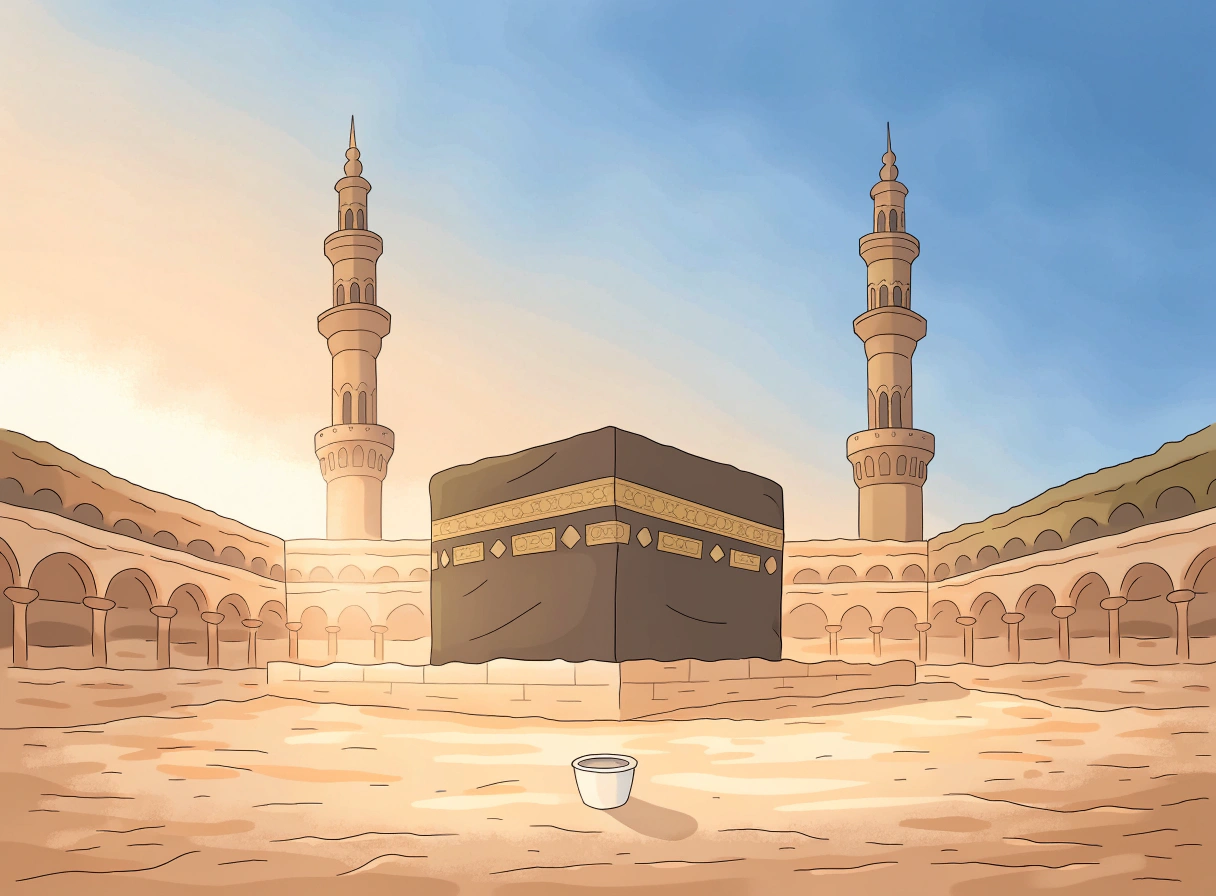
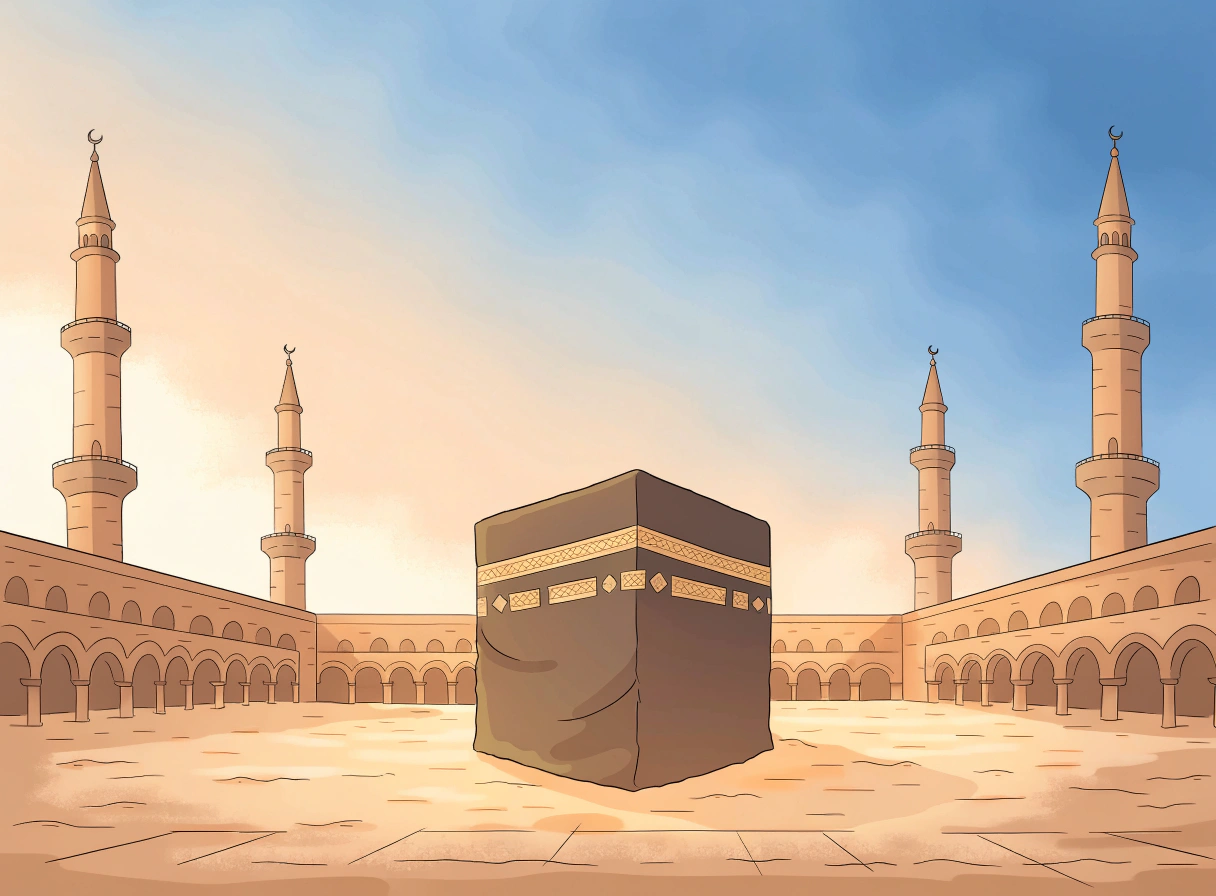
The parents' fixes to the Zamzam story before recording
- The last page: عَلَيْهِمَا السَّلَامُ after Hajar and Ismail.
- Page 5: a big tree with the small, empty waterskin at its foot (the
  skin had been drawn larger than the tree).
- Page 13: the Kaaba with no cup in front of it.
- The door's name with a fatha: الْقَصَصُ.
- Offline copy ashudd-v16.

diff --git a/public/index.html b/public/index.html
@@ -32,7 +32,7 @@
     <svg class="art" viewBox="0 0 400 400" aria-hidden="true"><defs><clipPath id="arch"><path d="M120 372V190Q120 104 200 58Q280 104 280 190V372Z"/></clipPath></defs><rect width="400" height="400" fill="#F6EBDA"/><path d="M100 380V188Q100 92 200 34Q300 92 300 188V380" fill="none" stroke="#C98A45" stroke-width="5"/><g clip-path="url(#arch)"><rect x="110" y="40" width="180" height="340" fill="#FBF4E8"/><rect x="130" y="62" width="25" height="25" rx="6" fill="#EADCC6"/><rect x="159" y="62" width="25" height="25" rx="6" fill="#EADCC6"/><rect x="188" y="62" width="25" height="25" rx="6" fill="#E9A43C"/><rect x="217" y="62" width="25" height="25" rx="6" fill="#EADCC6"/><rect x="246" y="62" width="25" height="25" rx="6" fill="#EADCC6"/><rect x="130" y="91" width="25" height="25" rx="6" fill="#EADCC6"/><rect x="159" y="91" width="25" height="25" rx="6" fill="#2A9D8F"/><rect x="188" y="91" width="25" height="25" rx="6" fill="#E9A43C"/><rect x="217" y="91" width="25" height="25" rx="6" fill="#2A9D8F"/><rect x="246" y="91" width="25" height="25" rx="6" fill="#EADCC6"/><rect x="130" y="120" width="25" height="25" rx="6" fill="#3E76C2"/><rect x="159" y="120" width="25" height="25" rx="6" fill="#EADCC6"/><rect x="188" y="120" width="25" height="25" rx="6" fill="#E9A43C"/><rect x="217" y="120" width="25" height="25" rx="6" fill="#EADCC6"/><rect x="246" y="120" width="25" height="25" rx="6" fill="#3E76C2"/><rect x="130" y="149" width="25" height="25" rx="6" fill="#3E76C2"/><rect x="159" y="149" width="25" height="25" rx="6" fill="#D4693F"/><rect x="188" y="149" width="25" height="25" rx="6" fill="#EADCC6"/><rect x="217" y="149" width="25" height="25" rx="6" fill="#D4693F"/><rect x="246" y="149" width="25" height="25" rx="6" fill="#3E76C2"/><rect x="130" y="178" width="25" height="25" rx="6" fill="#EADCC6"/><rect x="159" y="178" width="25" height="25" rx="6" fill="#D4693F"/><rect x="188" y="178" width="25" height="25" rx="6" fill="#5E9E45"/><rect x="217" y="178" width="25" height="25" rx="6" fill="#D4693F"/><rect x="246" y="178" width="25" height="25" rx="6" fill="#EADCC6"/><rect x="130" y="207" width="25" height="25" rx="6" fill="#B05A8C"/><rect x="159" y="207" width="25" height="25" rx="6" fill="#EADCC6"/><rect x="188" y="207" width="25" height="25" rx="6" fill="#5E9E45"/><rect x="217" y="207" width="25" height="25" rx="6" fill="#EADCC6"/><rect x="246" y="207" width="25" height="25" rx="6" fill="#B05A8C"/><rect x="130" y="236" width="25" height="25" rx="6" fill="#B05A8C"/><rect x="159" y="236" width="25" height="25" rx="6" fill="#B05A8C"/><rect x="188" y="236" width="25" height="25" rx="6" fill="#EADCC6"/><rect x="217" y="236" width="25" height="25" rx="6" fill="#2A9D8F"/><rect x="246" y="236" width="25" height="25" rx="6" fill="#2A9D8F"/><rect x="130" y="265" width="25" height="25" rx="6" fill="#EADCC6"/><rect x="159" y="265" width="25" height="25" rx="6" fill="#3E76C2"/><rect x="188" y="265" width="25" height="25" rx="6" fill="#EADCC6"/><rect x="217" y="265" width="25" height="25" rx="6" fill="#E9A43C"/><rect x="246" y="265" width="25" height="25" rx="6" fill="#EADCC6"/><rect x="130" y="294" width="25" height="25" rx="6" fill="#E9A43C"/><rect x="159" y="294" width="25" height="25" rx="6" fill="#3E76C2"/><rect x="188" y="294" width="25" height="25" rx="6" fill="#EADCC6"/><rect x="217" y="294" width="25" height="25" rx="6" fill="#3E76C2"/><rect x="246" y="294" width="25" height="25" rx="6" fill="#E9A43C"/><rect x="130" y="323" width="25" height="25" rx="6" fill="#EADCC6"/><rect x="159" y="323" width="25" height="25" rx="6" fill="#E9A43C"/><rect x="188" y="323" width="25" height="25" rx="6" fill="#EADCC6"/><rect x="217" y="323" width="25" height="25" rx="6" fill="#2A9D8F"/><rect x="246" y="323" width="25" height="25" rx="6" fill="#EADCC6"/><rect x="130" y="352" width="25" height="25" rx="6" fill="#2A9D8F"/><rect x="159" y="352" width="25" height="25" rx="6" fill="#EADCC6"/><rect x="188" y="352" width="25" height="25" rx="6" fill="#D4693F"/><rect x="217" y="352" width="25" height="25" rx="6" fill="#EADCC6"/><rect x="246" y="352" width="25" height="25" rx="6" fill="#5E9E45"/></g><path d="M120 374V190Q120 104 200 58Q280 104 280 190V374" fill="none" stroke="#A9603A" stroke-width="16" stroke-linejoin="round"/><rect x="88" y="368" width="224" height="18" rx="7" fill="#A9603A"/></svg>
   </a>
   <a class="game-card" href="stories.html">
-    <h2>الْقِصَصُ</h2>
+    <h2>الْقَصَصُ</h2>
     <svg class="art" viewBox="0 0 400 400" aria-hidden="true"><defs><clipPath id="cover-picture"><rect x="128" y="58" width="136" height="100" rx="5"/></clipPath></defs><rect width="400" height="400" fill="#F6EBDA"/><ellipse cx="200" cy="368" rx="150" ry="10" fill="#E6D5BB"/><rect x="64" y="328" width="272" height="36" rx="6" fill="#3E76C2"/><rect x="88" y="328" width="7" height="36" fill="#C98A45"/><rect x="305" y="328" width="7" height="36" fill="#C98A45"/><rect x="84" y="296" width="234" height="32" rx="6" fill="#A9603A"/><rect x="104" y="296" width="6" height="32" fill="#E9C27A"/><rect x="292" y="296" width="6" height="32" fill="#E9C27A"/><rect x="74" y="266" width="252" height="30" rx="6" fill="#5E9E45"/><rect x="96" y="266" width="6" height="30" fill="#E9C27A"/><rect x="298" y="266" width="6" height="30" fill="#E9C27A"/><rect x="104" y="40" width="6" height="222" rx="2" fill="#FBF4E8"/><rect x="108" y="36" width="188" height="230" rx="9" fill="#23766D"/><rect x="280" y="36" width="16" height="230" rx="4" fill="#1B5E57"/><rect x="118" y="48" width="154" height="206" rx="6" fill="none" stroke="#C98A45" stroke-width="3"/><image href="images/stories/zamzam/cover.webp" x="128" y="58" width="136" height="100" preserveAspectRatio="xMidYMid slice" clip-path="url(#cover-picture)"/><g fill="#FBF4E8" font-family="Noto Naskh Arabic, serif" font-weight="700" font-size="17" text-anchor="middle" direction="rtl"><text x="195" y="196">إِسْمَاعِيلُ الصَّغِيرُ</text><text x="195" y="230">وَبِئْرُ زَمْزَمَ</text></g></svg>
   </a>
 </nav>

diff --git a/public/stories.html b/public/stories.html
@@ -3,7 +3,7 @@
 <head>
 <meta charset="utf-8">
 <meta name="viewport" content="width=device-width, initial-scale=1, viewport-fit=cover">
-<title>الْقِصَصُ</title>
+<title>الْقَصَصُ</title>
 <link rel="icon" href="images/logo.webp">
 <link rel="manifest" href="manifest.webmanifest">
 <link rel="apple-touch-icon" href="icons/apple-touch-icon.png">
@@ -14,7 +14,7 @@
 <body>
 <div class="game">
   <header class="top"><a href="/" aria-label="الصَّفْحَةُ الرَّئِيسِيَّةُ"><img class="logo" src="images/logo.webp" alt=""></a></header>
-  <h1 class="hub-title">الْقِصَصُ</h1>
+  <h1 class="hub-title">الْقَصَصُ</h1>
   <!-- One book per finished story, as the games hub has one card per finished game. -->
   <nav class="shelf">
     <a class="book" href="story.html?s=zamzam">

diff --git a/public/story.html b/public/story.html
@@ -3,7 +3,7 @@
 <head>
 <meta charset="utf-8">
 <meta name="viewport" content="width=device-width, initial-scale=1, viewport-fit=cover">
-<title>الْقِصَصُ</title>
+<title>الْقَصَصُ</title>
 <link rel="icon" href="images/logo.webp">
 <link rel="manifest" href="manifest.webmanifest">
 <link rel="apple-touch-icon" href="icons/apple-touch-icon.png">
@@ -14,7 +14,7 @@
 <body class="story-page">
 <div class="story" id="story" data-page="title">
   <header class="head">
-    <a href="stories.html" aria-label="الْقِصَصُ"><img class="logo" src="images/logo.webp" alt=""></a>
+    <a href="stories.html" aria-label="الْقَصَصُ"><img class="logo" src="images/logo.webp" alt=""></a>
   </header>
   <main class="story-book" id="book">
     <figure class="story-picture"><img id="picture" alt=""></figure>

diff --git a/public/sw.js b/public/sw.js
@@ -4,7 +4,7 @@
    reload.
    Every page, photo, recording and font the pages use belongs in FILES. One
    that is missing still gets saved the first time it is used. */
-const CACHE = 'ashudd-v15';
+const CACHE = 'ashudd-v16';
 const FILES = [
   '/',
   '/reading.html',

diff --git a/CLAUDE.md b/CLAUDE.md
@@ -34,7 +34,7 @@ An Islamic homeschool site for a 4-year-old, built by his parents. The curriculu
 
 Plain HTML, CSS, and JavaScript in `public/`, with no build step and nothing to install.
 
-- `index.html`: the optional sign-in button (top left), logo, ayah 18:82, a card for each lesson, the `أَلْعَاب` door (an arch of colored tiles, drawn in SVG), the `الْقِصَصُ` door (a book standing on a stack of three plain books, drawn in SVG, its cover the first story's picture and title), and the install button
+- `index.html`: the optional sign-in button (top left), logo, ayah 18:82, a card for each lesson, the `أَلْعَاب` door (an arch of colored tiles, drawn in SVG), the `الْقَصَصُ` door (a book standing on a stack of three plain books, drawn in SVG, its cover the first story's picture and title), and the install button
 - `games.html`: `أَلْعَاب`, the games hub. One card per finished game, no placeholders for games still to come. Inside a game the logo leads back here, as it leads home from the hub and the lessons. One card is a door to a hub of its own, `making.html` (`الْبِنَاءُ وَالتَّصْنِيعُ`), which holds the building game and the car factory, one card each: their logo and ✕ lead back to that door, and the door's lead here. The design plan for the games, with the parents' decisions, is `docs/games-plan.md`; how to make their pictures in Recraft is `docs/recraft-images.md`.
 - `blocks.html`, `js/blocks.js`: `الْمُكَعَّبَاتُ`, the block puzzle. A 6×6 board and three pieces at a time (none longer than four), dragged on with large targets; on a touch screen the piece rides above the finger, and it drops on the nearest spot where it fits. A full row or column bursts in a wave, one star per line flies to the counter (top left, Arabic-Indic digits), and the praise shows and plays: `أحسنت` (`well-done`) for one line, `مَا شَاءَ اللَّهُ` (`mashaallah`) for two or more or a cleared board. No losing: a piece with no room is dimmed, and when none has room the `قِطَعٌ جَدِيدَةٌ` button deals three that fit. Every deal fits the board, and often includes a piece that would finish a line. The board is kept in `localStorage`; `لَوْحَةٌ جَدِيدَةٌ` in the ☰ menu starts over. Tiles are glazed colors with a diamond inlay (`[data-tile]` in `style.css`); wide screens put the tray in a column beside the board.
 - `clock.html`, `js/clock.js`: `السَّاعَةُ`, telling the time (whole hours for now, no prayer times: the prayers get their own game). One big clock whose hands the child turns; they move together as on a real clock. A touch takes the nearer hand (near the middle, the short one). Let go and the clock springs to the nearest whole hour and says it (`hour-1` to `hour-12`, in the chosen dialect); a tap on the clock says it again. The card above shows an hour and says it when tapped; when the clock settles on it, a chime, a star to the counter, `أحسنت`, and a new hour. Any other hour is just said, never buzzed. The sky behind follows the time of day (sun right to left, moon and stars at night, the town's windows lit), and the clock opens at the real time, rounded to the hour. Two round buttons pick the way to play, remembered with the stars in `localStorage`: the hours (a clock icon), or "my day" (the boy's picture), where the card shows a picture of his day (`images/day/<name>.webp`, from Recraft Basic) with its hour, in the order of the day, starting from the next one after the time now; when the clock matches, the sky turns to that time of day. The scene hours in `DAY` in `clock.js` are placeholders until the parents give the real ones.
@@ -44,8 +44,8 @@ Plain HTML, CSS, and JavaScript in `public/`, with no build step and nothing to 
 - `js/chase.js`: the picture of the two cloned roads, on `drive.js`'s logic (the same stars, lights, crossings, pedals, steering and arrival). The father still got a little dizzy from the view from above, where the whole screen slides down at one speed with nothing standing still; a motorcycle game he sent, seen from the rider's seat, does not make him dizzy, and these roads do what it does: a view from low behind the car in simple 3D (the road drawn in slices by distance, drawings scaled the same way), a horizon 40% down that never moves, a still sky and far town, a camera that looks straight ahead and never turns or leans, the child's red car always the same size low in the middle, thin pale lane dashes that fade before they reach the car, plain curbs, and everything coming in out of a haze. He said that cured the dizziness, and sent back the rest, which is how it now stands. Every distance along the road is drawn `STRETCH` (2.5) times longer while cars, stars and buildings keep their size (and the logic's car lengths are divided by it), so that 15 lanes a second covers the ground fast: from behind, the unstretched road crawled, and 9 lanes a second was still too slow. Traffic drives at 4.5 lanes a second, mostly one car to a row and now and then two to weave between, the rows 12 to 18 lanes apart (neither the crowd he first sent back nor an empty road), and every car is drawn solid, its colors mixed toward the haze, never see-through and never left out. A car beside the child's car is a wall (`touchBeside()`: his car is put back sideways with the bump and the horn, and the other car never moves; before, it was pushed behind him and vanished); a car he has passed drops back and is gone for good once behind the camera, and one just passed, still between him and the camera, holds its lane against him for that moment. Cars keep 2 lanes behind the car ahead (`KEEP`) and stop 1 lane short of a line or a crossing (`short` in `stopLimit()`), so each shows above the roof of the one behind it. The stars of a line are 3.2 lanes apart (`STARS_APART.behind`) and stand small, facing the camera, so a line of four reads as four. A finger steers along the road as well as across it (`chase.pointed`). At the end a side street leaves the right lane at a slant, straightens, and ends at the place itself, which stands across its end facing the camera, big, a few lanes beyond the car's nose (`SLIP`, `slipOff()` in `drive.js`); the camera moves sideways with the car (`trip.pan`) while the horizon, the sky and the far town stay still; at her house the grandmother walks out to beside the car's nose and waves. A first ending at the curb, with the place 22 lanes further on, was sent back: no side road, and the grandmother small in the distance. The knobs for comfort and speed are `STRETCH`, `BACK` (the camera's distance), `HAZE`, `ROW_AT` and `POST_AT` (how far back the buildings and the lamps stand) and `DASH`, and in `drive.js` `SLIP`, `KEEP` and `STARS_APART`. On localhost, `window.driveGame.chase` and `driveGame.render()` step it by hand.
 - `js/desert.js`: `الْوَاحَةُ`, the third ride in `drive.html`, a game of its own that leans on `drive.js` (its canvas, steering, pedals, stars, sounds and arrival screen). An all-terrain bike rides across the desert to an oasis (`place-oasis`), seen from behind in simple 3D: the camera rides a little above and straight behind the bike, looking straight ahead, never turning, rolling or pitching, with the horizon fixed 40% down and the sky, the sun and the far hills painted once per ride and standing still (the same cure for the father's dizziness as in `chase.js`). The bike is the Recraft drawing `atv.svg`, seen from straight behind in the middle of the picture, leaning a few degrees into a turn; its rider is a grown-up in a helmet with his back to us, so no face shows. (The father first asked for the whole bike seen from the back left; that drawing looked as if it pointed left while it went straight, and was replaced.) Two earlier views were sent back: from the side (no steering, the same course every time), then from straight above (the hills did not show, and the bike crossed water as if by magic). The ground has a height along the way (`land`) and the camera follows the ground under the bike, so a climb shows as sand rising over the horizon, a top as sand falling away, and a descent as land spread out below; the bike slows uphill and runs faster down, the motor works harder on a climb, and small puffs of dust rise low behind the wheels on slopes. There is no road: the way is shown by pairs of flags, a faint pair of old tire tracks, the lines of stars, and the oasis palms growing on the horizon near the end. The child cannot wander: the ride only goes forward, beyond the flags the sand is slow and eases the bike back, and the bike takes a share of each bend by itself (`FOLLOW`, 30%). No seat belt, so the choice goes straight to the du'a. Every ride is put together anew by `make()`: the mountain and the dunes, plus three of five other stretches (a ridge, a hollow, rocks, wells, a caravan walking beside the way), shuffled, then the palm grove and the oasis, at one of three times of day. Nothing makes the bike wait and there is no water to cross: the only water is the pool at the oasis. Rocks and wells in the way are a soft bump the bike slides around. The bike leaves the ground only off a jump ramp, which is real ground in `land` (`RAMP`: a straight face of 12 lanes up to a lip 2 lanes high, a drop behind it, two red-and-white posts at the lip; two in the dunes, one after the ridge's tall dune, none on the mountain): a bike that simply jumped on level sand was sent back. On the face the motor holds the bike at one speed (`PACE.air`), so every flight is the same true arc of about 6 lanes with three stars hung on it, and the camera follows the ground, not the bike, so the bike is seen leaving its shadow. The bike eases past a flag's pole or a ramp's post rather than through it (`POLE`); no flag stands where a flight lands, or within 3 lanes of a rock or a well. On every climb `اللَّهُ أَكْبَرُ` shows and is said (`allahu-akbar`), on every descent `سُبْحَانَ اللَّهِ` (`subhanallah`): a climb or a descent is a stretch of at least `ZIKR_RUN` lanes steeper than `ZIKR_SLOPE`, worked out once from `land` (`slopes()`), so the dunes, a ramp's face, the ridge, the hollow and the mountain count and the gentle swells do not. The words show only while the bike is on it and go the moment it ends; a first version that showed them on the mountain only, and kept them up after, was sent back. Animals are friends in the scenery, drawn without eyes or other features like every figure: camels with their herder, gazelles, a fox, and an eagle that glides across the sky and cries (`sound.eagle()`). The generator's first numbers are always small, so `make()` throws two away before it shuffles. On localhost, `window.driveGame.desert` steps it by hand.
 - `making.html`: `الْبِنَاءُ وَالتَّصْنِيعُ`, the door on the games hub that holds the building game and the car factory.
-- `stories.html`: `الْقِصَصُ`, the shelf: one book per finished story (a closed Arabic book seen face on, its spine on the right, its picture and title on the cover), no placeholders. The plan, the parents' decisions and the sources are in `docs/stories-plan.md`.
-- `story.html`, `js/story.js`, `stories/<id>.json`: the story reader, `story.html?s=<id>` (the logo and ✕ lead back to the shelf). A story is data: its title, title picture and title clip, then its pages, each with its text, its picture and its clip. The first is `stories/zamzam.json`, `إِسْمَاعِيلُ الصَّغِيرُ وَبِئْرُ زَمْزَمَ`: thirteen pages in the father's own wording (2026-11-24), Claude adding only the missing vowel marks and one grammar fix he was told about (`سَبْعَةَ أَشْوَاطٍ`, as شَوْط is masculine). Its honorifics stand where he wrote them, at the first mention of each name; edit the text only with the parents' say. Each page shows its picture above its words (beside them on a low, wide screen), large Noto Naskh, never scrolling, and nothing moves. Following the words is the parents' choice, "ink filling in": while a page is read aloud its words wait in a soft grey and each turns to full ink as it is spoken, and stays inked; the times come from the recording through `timing.autoWords` (a bare alif opening a word is passed as a wasla, as in the driving game's du'a). A page with no recording shows all its words inked. The first tap opens the sound (the title page's listen button breathes until then); after that each page reads itself when it opens, and the next arrow breathes when it ends. Nothing turns a page by itself: the arrows (forward is the green one on the left), a swipe (left to right goes forward, as an Arabic book's page turns) or the arrow keys. The last page's forward button is a shelf of books and leads to the shelf. Story narration is Fusha only, whatever the dialect switch says, because the words on screen must be the words spoken. On localhost, `window.storyBook` (`show(i)`, `at()`, `words()`).
+- `stories.html`: `الْقَصَصُ`, the shelf: one book per finished story (a closed Arabic book seen face on, its spine on the right, its picture and title on the cover), no placeholders. The plan, the parents' decisions and the sources are in `docs/stories-plan.md`.
+- `story.html`, `js/story.js`, `stories/<id>.json`: the story reader, `story.html?s=<id>` (the logo and ✕ lead back to the shelf). A story is data: its title, title picture and title clip, then its pages, each with its text, its picture and its clip. The first is `stories/zamzam.json`, `إِسْمَاعِيلُ الصَّغِيرُ وَبِئْرُ زَمْزَمَ`: thirteen pages in the father's own wording (2026-11-24), Claude adding only the missing vowel marks and one grammar fix he was told about (`سَبْعَةَ أَشْوَاطٍ`, as شَوْط is masculine). Its honorifics stand where he wrote them, at the first mention of each name, plus one `عَلَيْهِمَا السَّلَامُ` after Hajar and Ismail on the last page (no general rule yet: saying them every time is too much for a child, he said); edit the text only with the parents' say. Each page shows its picture above its words (beside them on a low, wide screen), large Noto Naskh, never scrolling, and nothing moves. Following the words is the parents' choice, "ink filling in": while a page is read aloud its words wait in a soft grey and each turns to full ink as it is spoken, and stays inked; the times come from the recording through `timing.autoWords` (a bare alif opening a word is passed as a wasla, as in the driving game's du'a). A page with no recording shows all its words inked. The first tap opens the sound (the title page's listen button breathes until then); after that each page reads itself when it opens, and the next arrow breathes when it ends. Nothing turns a page by itself: the arrows (forward is the green one on the left), a swipe (left to right goes forward, as an Arabic book's page turns) or the arrow keys. The last page's forward button is a shelf of books and leads to the shelf. Story narration is Fusha only, whatever the dialect switch says, because the words on screen must be the words spoken. On localhost, `window.storyBook` (`show(i)`, `at()`, `words()`).
 - `js/gear.js`: the safety gear, shared by the building game and the car factory. `بِسْمِ اللَّهِ` shows first with a button to begin (the tap is also what lets the page speak) and is said (`bismillah`); while it is said the words stay exactly where they are and only the button hides (when they moved to the middle, the father took it for a second `بِسْمِ اللَّهِ`). Then a helmet, a vest and two gloves are dragged from their pegs onto a boy with a plain face, as the seat belt is dragged in the driving games (`اِلْبَسْ مُعَدَّاتِ السَّلَامَةِ`, spoken as `gear`). The gloves are a right one and a left one, each for its own hand (the boy faces us, so his right hand is on the left of the picture), and the right comes first: the left glove stays on its peg until the right one is on, and `اِبْدَأْ بِالْيَمِينِ` shows and is said (`start-right`). His arms hang with the palms toward us, so each thumb is on the outer side, away from his body; his bare hands have fingers, and one shape (`hand()`) draws a hand and its glove, the glove a size larger, so the thumbs always agree and a glove covers its hand (gloves with the thumbs inward were sent back as mixed up). The father asked for the two gloves, the order and the words; `بِسْمِ اللَّهِ` he asked for in the car factory, and the building game has it because the scene is shared. A page gives it an empty `#view-gear` section and calls `gear.start(done)`; `gear.skip()` is for tests.
 - `build.html`, `js/build.js`: `بِنَاءُ الْمَسْجِدِ`, the building game. After `بِسْمِ اللَّهِ` and the safety gear (`js/gear.js`), a building site seen from the side, drawn on a canvas in its own lengths (x from 0 to 16, y up from the ground; a narrow screen shows part of it and follows the work), with five stages that follow one another by themselves, each starting from what the last one built: (1) the bulldozer digs the foundation pit, marked with stakes and string, in three passes, each a layer deeper, its blade down while it pushes and up while it backs (a curved plate whose hollow face looks forward, on a push arm with a lift ram), and pushes the earth out onto a spoil heap; the pit shows in section; (2) the foundation, laid the way it really is (a mixer that simply filled the pit like a pool was sent back): two workers carry the steel mesh into the pit; the concrete pump parks at the pit's end, puts its feet down and unfolds its arm; the child backs the mixer, its drum turning, up to the pump's hopper; then he holds the one button to pour and moves the hose along the pit with the two drive buttons (the flow runs on a moment after the button is let go, so one finger is enough), and the concrete stands in heaps, one for each of five parts of the pit, a part that has its heap taking no more; with one button held, two workers draw a long board along the top and strike the heaps level, a worker with a float behind them; it sets, and only then is the foundation laid; then the bulldozer comes back and pushes the spoil heap in along the front, the cut in the ground closes for good (`site.cut`), and no slab shows under the walls from then on: a grey base under the finished masjid was sent back; (3) a flatbed truck with a loading arm, its wheels on the ground line like the forklift's (`TRUCK.lane` 0: one standing higher looked as if it floated), brings the stone and its arm sets each pallet down at the pick-up spot (pallets that dropped in from nowhere were sent back), and the forklift takes the three pallets to the wall, each lifted a course higher than the last (a load too low stops at the wall's face); (4) the hand tools, seen close: the door lies flat on two sawhorses, seen from the front and a little from above, so that its nails and screws stand up out of it and are driven down, each tool working along its real axis: the hammer swings down onto a nail's head, the screwdriver stands on a screw and turns, the drill points down at a pencilled cross and bores; a fastener glows only while its own tool is in the hand and near it, and another tool held on it gets the soft buzzer; then the handle is bolted on and a worker hangs the door in the masjid; (5) the crane, which stands on the site from the start, lifts the minaret's shaft, its top, and last the dome, each brought by the same truck standing on its bed, lifted off it, carried over whatever stands in the way and set down on its dashed outline. The minaret stands against the hall's end wall (`MINARET.x` is `HALL.x1 + 0.45`): a gap between the two was sent back. The parents want things to look and work as they really do: a base that simply appeared after earth was pushed aside, a blade curved the wrong way and tools that hung in the picture's plane were all sent back. Two buttons on the left drive (or move the crane's trolley), two on the right raise and lower; the arrow keys do the same; the button that helps at the moment breathes (`hint()`). Each machine's name shows and is said as it comes (`الْجَرَّافَةُ`, `حَدِيدُ التَّسْلِيحِ` for the steel, `مِضَخَّةُ الْخَرَسَانَةِ`, `خَلَّاطَةُ الْخَرَسَانَةِ`, `الشَّاحِنَةُ`, `الرَّافِعَةُ الشَّوْكِيَّةُ`, `الرَّافِعَةُ`), each tool's as it is picked up (`الْمِطْرَقَةُ`, `الْمِفَكُّ`, `الْمِثْقَابُ`), each part's as it is finished (`الْأَسَاسُ`, `الْجُدْرَانُ`, `الْبَابُ`, `الْمِئْذَنَةُ`, `الْقُبَّةُ`): all in `WORDS`, and all Claude's drafts until the parents approve them. When the dome is on, `اللَّهُ أَكْبَرُ` shows and is said (`allahu-akbar`), then the first words of the adhan play (`adhan-1.mp3`), with five stars. No losing anywhere; stars come for each pass, the foundation, each pallet, the door and each lifted part. The stage reached is kept in `localStorage` with the stars as `{v: 2, stars, stage}` (a save without `v` counted four stages and is moved up one), so a visit carries on from there (the gear goes on every time); `مَسْجِدٌ جَدِيدٌ` in the ☰ menu starts over. Soft site noise plays behind (`ambience('site')`). Everything is drawn in code: the machines, their workers (a helmet, a plain head, a vest), the masjid. On localhost, `window.buildGame` steps it by hand.
 - `factory.html`, `js/factory.js`: `مَصْنَعُ السَّيَّارَاتِ`, the car factory, built like the building game (the same shell, buttons, hints, word pill and stars; the stage kept under the key `factory`; `سَيَّارَةٌ جَدِيدَةٌ` in the ☰ menu to start over; `window.factoryGame` on localhost). After `بِسْمِ اللَّهِ` and the safety gear, a blue sport SUV with no badge or lettering is put together in ten jobs, each part arriving by something real and put on by the child: the chassis rides in on the line (one button); the overhead hoist sets the engine on its mounts (four buttons, as the crane); the seats, seen from above, are dragged from a cart to their places; the bare body is sprayed blue in the paint booth; the hoist lowers the body onto the chassis; the doors of one side are hung, each on its own opening; the wheels of that side are rolled onto their hubs, and each is bolted, seen close and face on, with the L-shaped wheel wrench, whose socket sits on a bolt while its handle sweeps round like a clock hand (five bolts a wheel); the table turns the car and the other side gets its doors and wheels; then, seen from the front, the headlights are pushed in and light. A place or a bolt glows only while its own part or the wrench is carried near it. At the end the car turns through its views, its engine revs three times (`sound.rev(3)`), and only then `الْحَمْدُ لِلَّهِ` shows and is said (`alhamdulillah`), with five stars. The car is drawn in code from the side, the front, the back and above. On the table it turns as one solid thing (a flip between the views was sent back): the table is a round plate whose marks go round, and at every angle the two faces that show are drawn, the side narrowed by the cosine and the end by the sine, joined at the corner (`drawTurned`), a half turn in about four seconds. A bolt's place comes from one pair of functions (`boltOff`, `boltAt`), mirrored for the second side, for the drawing, the glow and the wrench alike: on the second side the wrench once turned on the mirror image of each bolt. A finished car whose ending was not seen through opens on the ending (the save holds stage 10). The words, all drafts: `الْهَيْكَلُ`, `الْمُحَرِّكُ`, `الْمَقَاعِدُ`, `الطِّلَاءُ`, `جِسْمُ السَّيَّارَةِ`, `الْأَبْوَابُ`, `الْعَجَلَاتُ`, `مِفْتَاحُ الْعَجَلَاتِ`, `الْمَصَابِيحُ`. A soft hum plays behind (`ambience('factory')`). The father asked for the factory, the parts, the wheel bolts with the L-shaped wrench, the blue SUV shown from several sides, the three revs and the two phrases; the ten jobs, the paint booth and the headlights were Claude's choices.
@@ -65,7 +65,7 @@ Plain HTML, CSS, and JavaScript in `public/`, with no build step and nothing to 
 - `manifest.webmanifest`, `icons/`: the installed app's name, colors, and icons, made from `images/logo.webp`. iPhone and iPad cache icons hard, so a replaced icon needs a new file name.
 - `credits.html`: `المصادر`, the required photo credits. Update it whenever a photo changes.
 - `audio/<name>.m4a` or `.wav`: the parents' own recordings (`.m4a` from a phone, `.wav` from `record.html`). The games play them by name, and a missing clip stays silent. Add every new clip to `FILES` in `sw.js`. Clip names so far: the six words, `read`, `match`, `well-done`; `fatihah-1` to `fatihah-7`; `read-it` / `read-it-masri`; `fusha` / `masri`; `jump` / `jump-masri`, `count-1` to `count-7` (+ `-masri`); `father`, `mother`, `brother`, `alif-name`, `alif-sound`; `mashaallah`; `hour-1` to `hour-12` (+ `-masri`); `masjid-dua`; `belt` / `belt-masri`, `riding-dua`, `alhamdulillah`, `place-masjid` / `place-grandma` / `place-oasis` (+ `-masri`), `allahu-akbar`, `subhanallah`; the building game's `gear`, `dozer`, `forklift`, `crane`, `tool-hammer`, `tool-drill`, `part-walls`, `part-minaret` (each + `-masri`) and `tool-screwdriver`, `part-foundation`, `part-door`, `part-dome` (one recording each); the gear's `bismillah` (one recording) and `start-right`, the building game's `mixer`, `truck`, `pump` and `part-steel`, and the car factory's `car-chassis`, `car-engine`, `car-seats`, `car-paint`, `car-body`, `car-doors`, `car-wheels`, `car-lights` and `tool-wrench` (each + `-masri`); the mazes' `maze-draw`, `maze-find`, `maze-what` and `maze-icecream` (each + `-masri`), `maze-apple`, `maze-lantern` and `maze-crescent`; the Zamzam story's `zamzam-title` and `zamzam-1` to `zamzam-13` (Fusha only). Only the first nine exist; the rest are cards waiting to be recorded.
-- `images/day/*.webp`, `images/drive/*.svg`, `images/stories/<id>/*.webp`: the Recraft pictures. The stories' are 1216 by 896 WebP straight from Recraft Basic, in the private style "Ashuddahuma stories (Basic)" (`aa69f6e4-9747-4e1f-b208-43a1000b618c`), with their raw copies in `recraft/stories-raw/`. In a prophet's story no figure is drawn at all, not the prophets, not Hajar, not the angel: the land, footprints, objects and light tell it, and nothing that would not have been there (the father sent back a wooden cradle in the desert). The driving game's are vector drawings cut out and slimmed by `clean-svg.py`, kept with the raw files in the `recraft` folder one level above this repo (see `docs/recraft-images.md`): the roads' in `recraft/drive-raw`, the desert's in `recraft/desert-raw` (with `atv`, `well` and `rocks`, made for the view from behind). Drawn animals follow the rule for figures: no eyes or other features.
+- `images/day/*.webp`, `images/drive/*.svg`, `images/stories/<id>/*.webp`: the Recraft pictures. The stories' are 1216 by 896 WebP straight from Recraft Basic, in the private style "Ashuddahuma stories (Basic)" (`aa69f6e4-9747-4e1f-b208-43a1000b618c`), with their raw copies in `recraft/stories-raw/`. In a prophet's story no figure is drawn at all, not the prophets, not Hajar, not the angel: the land, footprints, objects and light tell it, and nothing that would not have been there (the father sent back a wooden cradle in the desert and a cup in front of the Kaaba). Keep things their true size to each other: he sent back a waterskin drawn larger than the tree. The driving game's are vector drawings cut out and slimmed by `clean-svg.py`, kept with the raw files in the `recraft` folder one level above this repo (see `docs/recraft-images.md`): the roads' in `recraft/drive-raw`, the desert's in `recraft/desert-raw` (with `atv`, `well` and `rocks`, made for the view from behind). Drawn animals follow the rule for figures: no eyes or other features.
 - `audio/adhan-1.mp3`: the opening words of a freely licensed adhan recording (the KLCC masjid in Kuala Lumpur, CC0), the only recording on the site that is not the parents' own. The full files are in `adhan-raw`, one level above this repo. No free recording of the muezzins the parents asked for (Ali Mulla, al-Surayhi, the Egyptian radio adhan) was found: those belong to their broadcasters.
 - `tools/`: one-off scripts that write data files from their sources or check them: Python with the standard library only (`make-riding-dua.py`, `cut-mp3.py`, `make-mazes.py`, `make-typing-layouts.py`, `check-typing-layouts.py`, `make-typing-data.py`) and two in Node (`test-typing-engine.js`, `list-egyptian.js`). Their sources are in `docs/sources/`. The site itself still needs no build step.
 - `images/<name>.jpg`: Wikimedia Commons photos, cropped to square by CSS. To be replaced by approved generated images; the Kaaba and the Prophet's mosque are the ones most likely to stay real.

diff --git a/docs/stories-plan.md b/docs/stories-plan.md
@@ -1,4 +1,4 @@
-# الْقِصَصُ: the stories
+# الْقَصَصُ: the stories
 
 The stories door on the home page, its shelf (`stories.html`) and the reader (`story.html`, `js/story.js`). Built on 2026-11-24 after the father's answers. This file keeps the decisions, the sources and what is still open.
 
@@ -16,7 +16,7 @@ As he wrote it. The vowel marks he had left out were added on the title, page 7 
 
 There was one grammar fix: he wrote «سَبْعَ أشواط», and it is now «سَبْعَةَ أَشْوَاطٍ». شَوْط is masculine, so the number from three to ten takes the feminine form. «سَبْعَ مَرَّاتٍ» is right only because مَرَّة is feminine. Tell Claude if you want it back.
 
-The honorifics stand where he wrote them: at the first mention of Ismail, Ibrahim, Hajar (page 1) and Jibreel (page 9), and not at later mentions or after Allah's name. Earlier he had asked for them "each time they are due", so this is a question for him. The data file is `public/stories/zamzam.json`. Edit it only with the parents' say.
+The honorifics stand where he wrote them: at the first mention of Ismail, Ibrahim, Hajar (page 1) and Jibreel (page 9), and once more on the last page, «هَاجَرَ وَإِسْمَاعِيلَ عَلَيْهِمَا السَّلَامُ», which he added before recording. He is not making a general rule yet, but saying them every time is too much for a child. The data file is `public/stories/zamzam.json`. Edit it only with the parents' say.
 
 | Page | Text | Picture |
 |---|---|---|
@@ -25,7 +25,7 @@ The honorifics stand where he wrote them: at the first mention of Ismail, Ibrahi
 | 2 | أَخَذَ إِبْرَاهِيمُ زَوْجَتَهُ وَطِفْلَهُ إِلَى مَكَّةَ، وَكَانَتْ وَادِيًا خَالِيًا لَا مَاءَ فِيهِ وَلَا نَاسَ. | The empty valley, one tree, two lines of footprints coming in |
 | 3 | تَرَكَ عِنْدَهُمَا قَلِيلًا مِنَ التَّمْرِ وَالْمَاءِ، ثُمَّ هَمَّ بِالرَّحِيلِ. | A date bag and a waterskin in the tree's shade, footprints leading away |
 | 4 | نَادَتْهُ هَاجَرُ: «يَا إِبْرَاهِيمُ، أَأَمَرَكَ اللَّهُ بِهَذَا؟» قَالَ: «نَعَمْ». فَقَالَتْ: «إِذَنْ لَنْ يُضَيِّعَنَا اللَّهُ!» | Footprints climbing to the top of the mountain pass, a calm sky |
-| 5 | مَرَّ الْوَقْتُ، وَنَفِدَ الْمَاءُ، وَعَطِشَ إِسْمَاعِيلُ وَبَكَى. | The waterskin flat and empty under the midday sun |
+| 5 | مَرَّ الْوَقْتُ، وَنَفِدَ الْمَاءُ، وَعَطِشَ إِسْمَاعِيلُ وَبَكَى. | A big acacia and, small at its foot, the waterskin, flat and empty, under the midday sun |
 | 6 | أَسْرَعَتْ هَاجَرُ إِلَى جَبَلِ الصَّفَا، وَنَظَرَتْ حَوْلَهَا، فَلَمْ تَرَ أَحَدًا. | Seen from the top of as-Safa: the empty valley |
 | 7 | ثُمَّ ذَهَبَتْ إِلَى جَبَلِ الْمَرْوَةِ، وَبَحَثَتْ عَنِ الْمَاءِ، وَلَكِنَّهَا لَمْ تَجِدْ شَيْئًا. | Seen from al-Marwa: one line of footprints across the valley |
 | 8 | ظَلَّتْ تَسْعَى بَيْنَ الصَّفَا وَالْمَرْوَةِ حَتَّى أَكْمَلَتْ سَبْعَةَ أَشْوَاطٍ. | Many trails of footprints between the two hills |
@@ -33,7 +33,7 @@ The honorifics stand where he wrote them: at the first mention of Ismail, Ibrahi
 | 10 | سُبْحَانَ اللَّهِ! إِنَّهُ مَاءُ زَمْزَمَ! | The spring close up, bubbling in its ring of sand |
 | 11 | شَرِبَتْ هَاجَرُ مِنْهُ، وَسَقَتْ إِسْمَاعِيلَ وَأَرْضَعَتْهُ. | A full waterskin beside the spring |
 | 12 | وَمَا زَالَ مَاءُ زَمْزَمَ يَجْرِي إِلَى يَوْمِنَا هَذَا. | Today: a row of drinking taps, water flowing, a stack of cups |
-| 13 | فَإِذَا زُرْتَ مَكَّةَ وَشَرِبْتَ مِنْ مَاءِ زَمْزَمَ، فَتَذَكَّرْ هَاجَرَ وَإِسْمَاعِيلَ، وَتَذَكَّرْ أَنَّ اللَّهَ لَا يُضَيِّعُ مَنْ تَوَكَّلَ عَلَيْهِ. | Today: the Kaaba in its black kiswa, a cup of water in front |
+| 13 | فَإِذَا زُرْتَ مَكَّةَ وَشَرِبْتَ مِنْ مَاءِ زَمْزَمَ، فَتَذَكَّرْ هَاجَرَ وَإِسْمَاعِيلَ عَلَيْهِمَا السَّلَامُ، وَتَذَكَّرْ أَنَّ اللَّهَ لَا يُضَيِّعُ مَنْ تَوَكَّلَ عَلَيْهِ. | Today: the Kaaba in its black kiswa in the empty courtyard |
 
 ## The pictures
 
@@ -71,6 +71,5 @@ These are notes for the parents, from sunnah.com and the Shamela connector.
 
 ## Open
 
-- Honorifics at every mention, as first asked, or only at the first, as his text has them?
-- The father reviews the 14 pictures, above all page 1 (now a plain sunrise) and page 12 (the taps).
+- The father reviews the 14 pictures, above all page 1 (now a plain sunrise) and page 12 (the taps). He sent back page 5 (the waterskin larger than the tree; now a big tree with a small, empty skin at its foot) and the cup in front of the Kaaba on page 13 (now an empty courtyard).
 - The next story.
